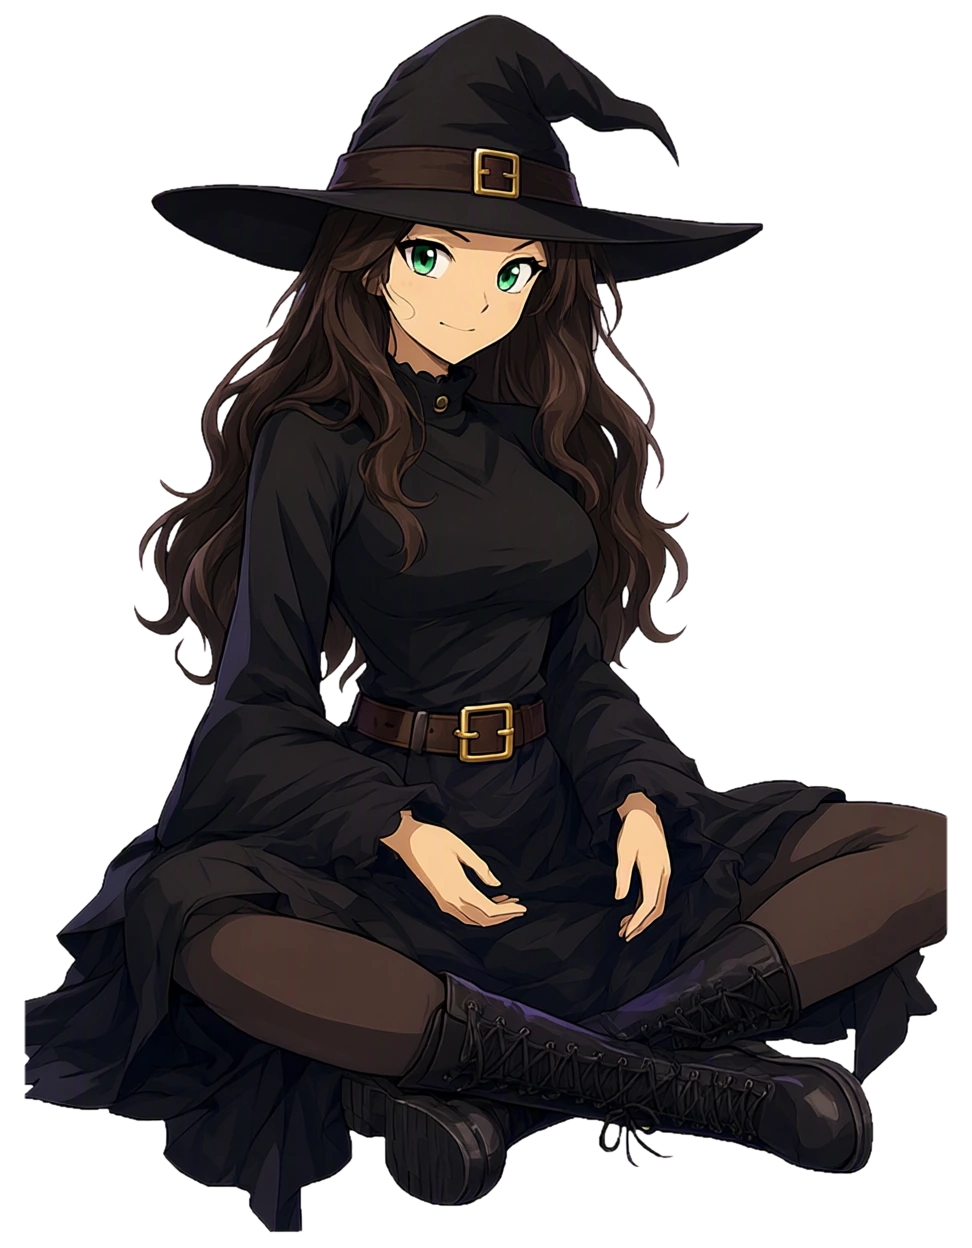
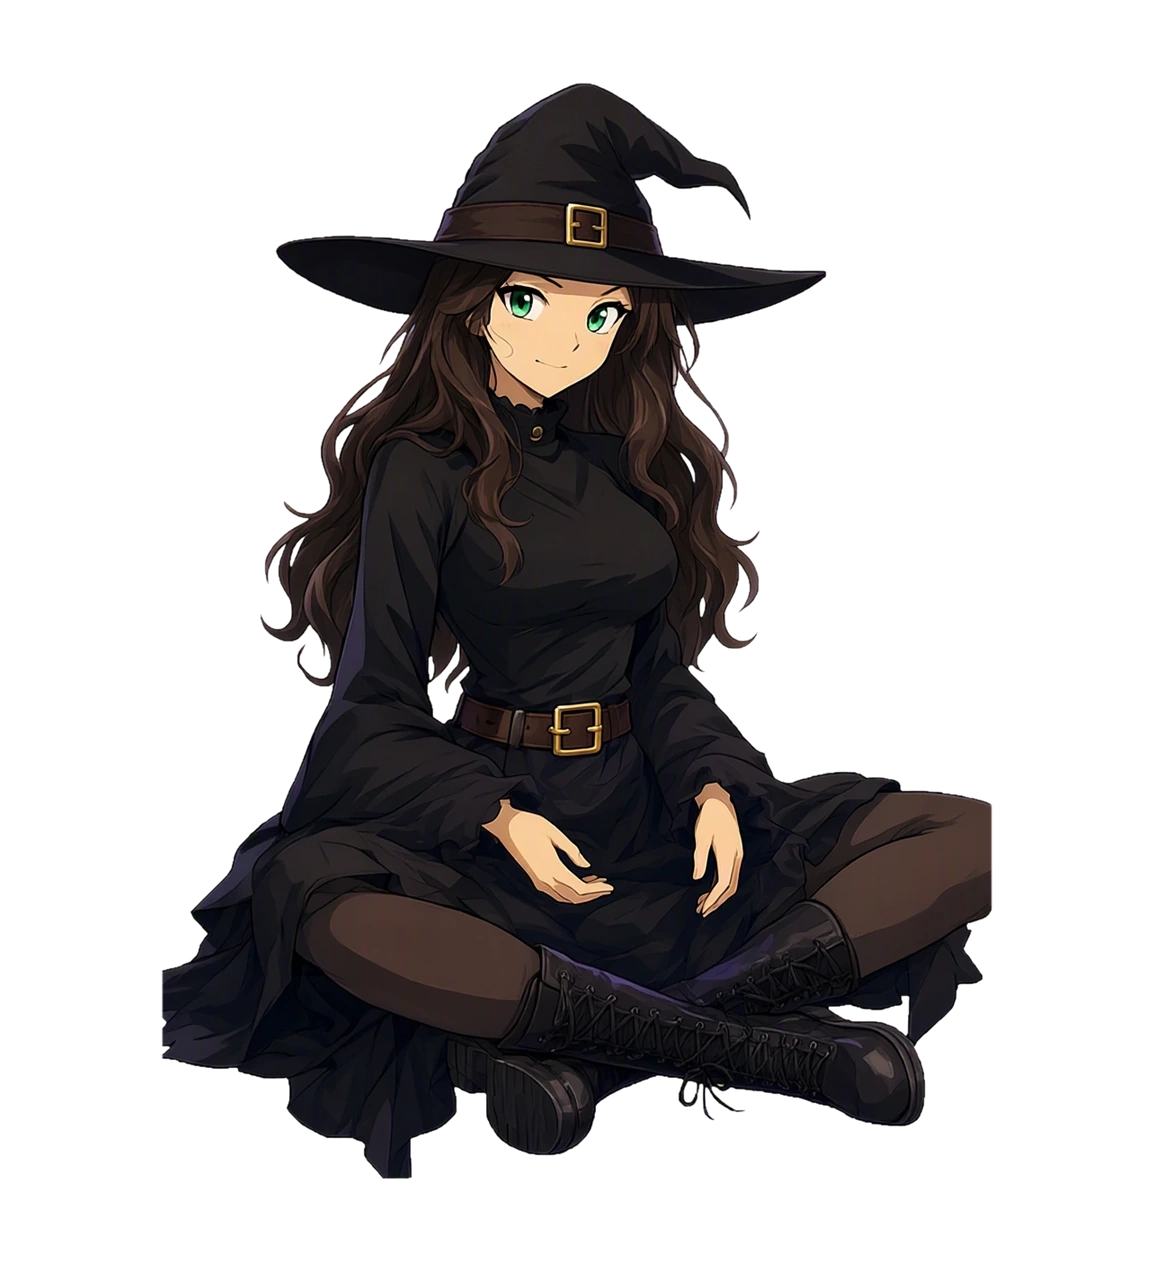
Give seated Kiki illustration side margins

diff --git a/docs/agents/kiki-assets.md b/docs/agents/kiki-assets.md
@@ -25,7 +25,7 @@
 | `kiki-flight-hero.webp` | 900×620, RGBA | hero админ-дашборда |
 | `kiki-flight-avatar.webp` | 640×640, RGB | аватар из светлого полёта; полная высокая шляпа |
 | `kiki-flight-badge.webp` | 640×640, RGBA | empty states; шляпа целиком |
-| `kiki-seated.webp` | 972×1248, RGBA | шаблоны задач, приветствие ассистента, empty; высокая шляпа |
+| `kiki-seated.webp` | 1154×1263, RGBA | шаблоны задач, приветствие ассистента, empty; высокая шляпа и боковые поля |
 | `kiki-desk.webp` | 1152×1024, RGB | клиентский дашборд, framed-карточка «за работой»; высокая шляпа |
 | `kiki-standing.webp` | 544×1632, RGBA | резерв: стоячая поза в светлой теме |
 | `kiki-hero.webp` | 1024×576, RGBA | старый спокойный кадр (резерв) |
